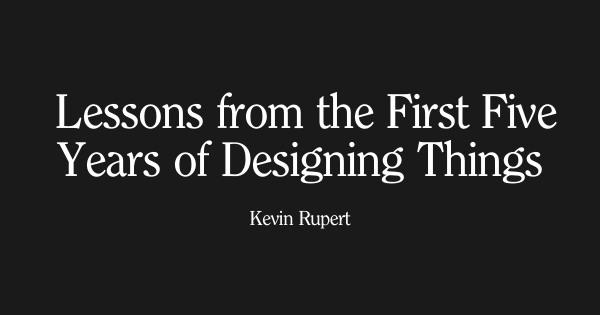
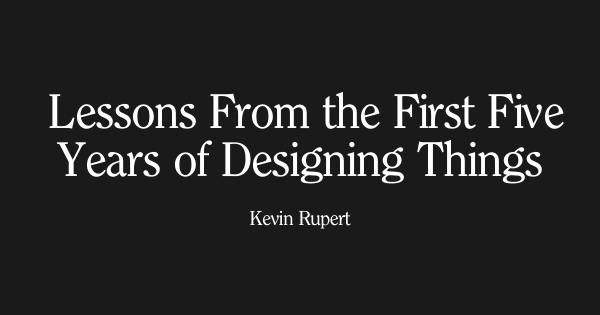
Title case?

Changed region(s): [[0.06, 0.2857, 0.96, 0.4286]]

diff --git a/index.html b/index.html
@@ -9,18 +9,18 @@
 
       gtag('config', 'UA-47023192-2');
     </script>
-    <title> Lessons from the First Five Years of Designing Things | Kevin Rupert</title>
+    <title> Lessons From the First Five Years of Designing Things | Kevin Rupert</title>
     <meta charset="utf-8">
     <meta name="viewport" content="width=device-width, initial-scale=1.0">
     <meta name="description" content="Kevin is a multi-disciplinary designer who specializes in experiences for every screen.">
     <!-- Facebook Share -->
     <meta property="og:url" content="https://kevvy.digital" />
-    <meta property="og:title" content=" Lessons from the First Five Years of Designing Things" />
+    <meta property="og:title" content=" Lessons From the First Five Years of Designing Things" />
     <meta property="og:image" content="https://kevvy.digital/assets/imgs/facebook-share.png" />
     <!-- Twitter Share -->
     <meta name="twitter:card" content="summary_large_image" />
     <meta name="twitter:site" content="@kevinrupert" />
-    <meta name="twitter:title" content=" Lessons from the First Five Years of Designing Things" />
+    <meta name="twitter:title" content=" Lessons From the First Five Years of Designing Things" />
     <meta name="twitter:image" content="https:/kevvy.digital/assets/imgs/twitter-share.png" />
     <link href="assets/imgs/favicon.ico" rel="shortcut icon" type="image/vnd.microsoft.icon">
     <link href="assets/style/css/main.css" media="all" rel="stylesheet">
@@ -28,7 +28,7 @@
   <body>
 
     <header>
-      <h1 class="title-2 animate-fade"> Lessons from the First Five Years of Designing Things</h1>
+      <h1 class="title-2 animate-fade"> Lessons From the First Five Years of Designing Things</h1>
     </header>
 
     <div class="lesson first animaton-group">
